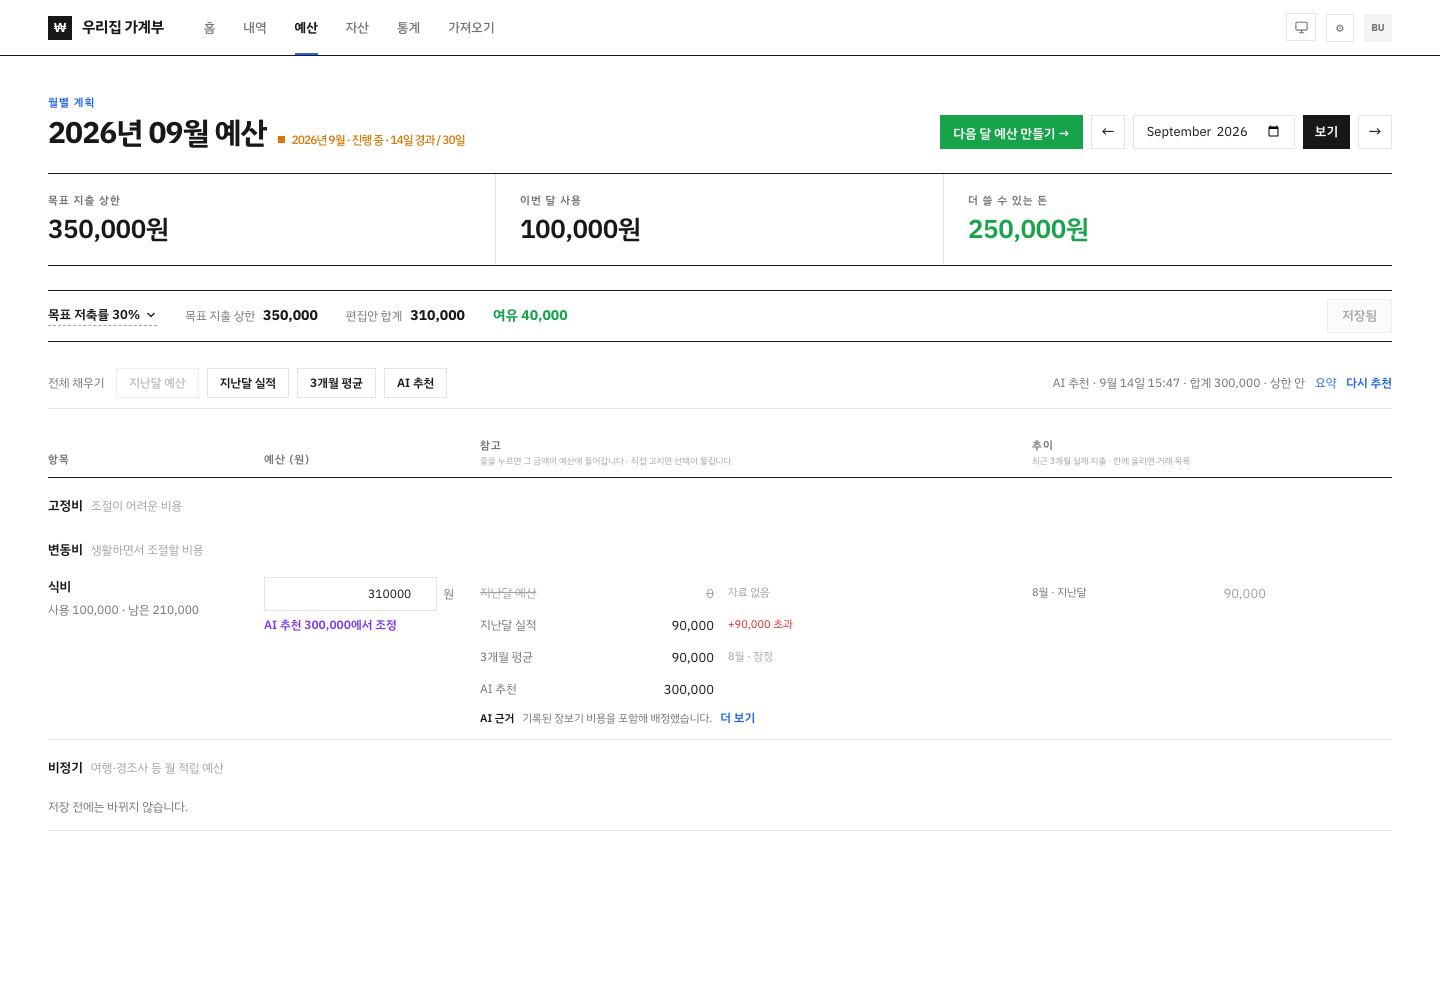
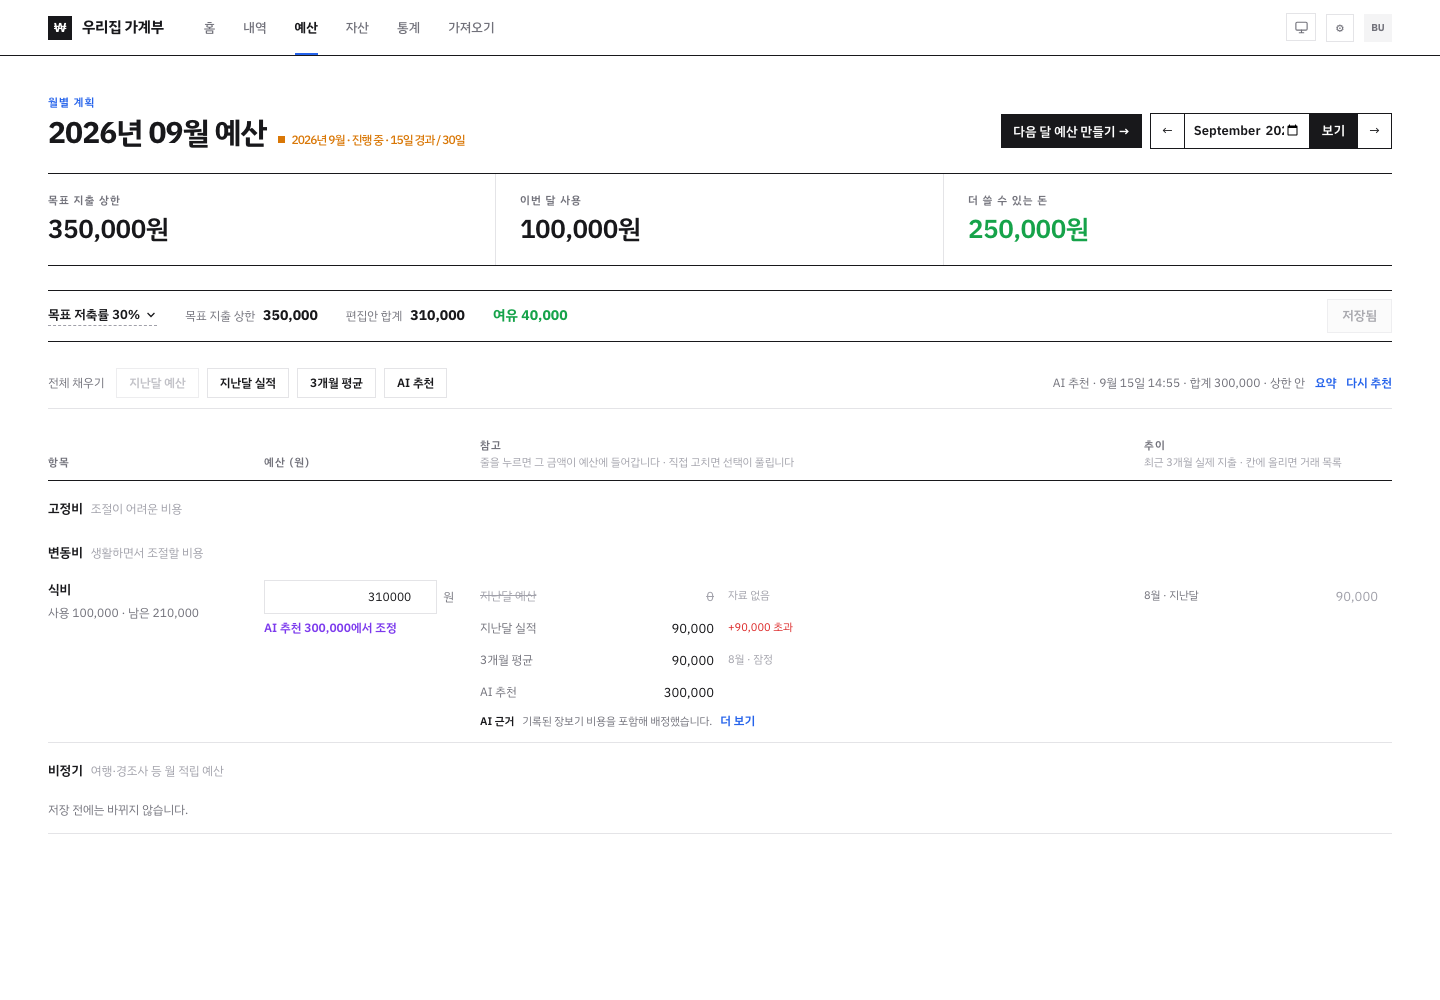
docs(budget-editor): refresh the 1440px record for the new column widths
fd60bf4 narrowed 추이 from 360px to 248px and gave the 112px to 참고, so the
1440px images in this directory no longer describe the layout. 56fdcd8 and
everything before it is already merged to main as f01fa63 and deploying, which
makes these images the record of live code -- stale is worse than changed.

What visibly moves at 1440px: the 참고 rows extend 112px further right, so a
selected row's check mark and its caption sit where the 추이 column used to
start. 추이 is narrower and its month/amount pair no longer floats with an empty
gap to its right -- the amounts align hard to the content edge. Nothing is
clipped or overlapped in any of the three, and the row heights are unchanged.

local-desktop-1440.png carries more than that. verification.md's 2026-09-14 entry
left it deliberately stale, one whole feature behind -- it predates the 추이
column entirely -- so this refresh brings that in too. It is a live capture, so
its date line and AI recommendation timestamp move with it.

The two 390px mobile images are deliberately NOT touched. @media (max-width:
640px) replaces the base columns outright, so this change cannot reach them. I
checked rather than assumed: with the shipped 56fdcd8 globals.css swapped into
the tree, the synthetic screenshot test regenerates synthetic-mobile-390.png and
synthetic-mobile-menu-390.png byte-identical to the run with my own CSS, while
both desktop images differ. Their drift from the committed baseline is older than
[…]

diff --git a/docs/design/budget-editor/result/verification.md b/docs/design/budget-editor/result/verification.md
@@ -141,3 +141,37 @@ standalone 실행이 `docs/design/budget-editor/result/`의 `synthetic-desktop-1
 ### 보호 경계
 
 브랜치 병합 기준점 `9af8e2b`부터 `826dbf1`까지 바뀐 파일을 전부 나열해 확인했다. `save-contract.ts`, `save-service.ts`, `budget-recommendations/snapshot.ts`, `budget-recommendations/worker.ts`는 목록에 없다. DB 스키마·마이그레이션 변경도 없다. 바뀐 것은 `src/features/analytics/*`, `src/features/budgets/*`와 그 테스트들, `eslint.config.mjs`(Task 1, 중첩 워크트리를 lint ignore에 추가), `src/app/globals.css`뿐이다.
+
+## 2026-09-15 참고·추이 열 너비 재조정
+
+`ui-alignment-followup` 후속 작업에서 `.plan-item`의 기본 네 번째 열(추이)을 `360px`에서 `248px`로 줄이고 그 112px를 참고 열에 넘겼다. 이 브랜치의 앞 커밋 `56fdcd8`까지는 이미 `main`에 병합(`f01fa63`)되어 배포 중이므로, 이 변경은 라이브 코드에 대한 후속 변경이다.
+
+### 근거
+
+`.plan-trend__cell`은 `110px 110px minmax(0, 1fr)`에 14px gap 두 개이므로 실제로 쓰는 폭은 248px다. 세 번째 트랙은 모바일 전용 라벨·구분자를 담는데 데스크톱에서는 `display:none`이라 **측정값이 92px의 빈 트랙**이었다. 반면 참고 열은 행에서 가장 넓은 내용을 담는다. `/budgets`의 참고 행 72개와 추이 셀 54개를 각 요소의 실제 computed font로 재어 얻은 트랙별 최대 내용은 다음과 같다.
+
+| 트랙 | 최대 내용 | 폭 |
+|---|---|---|
+| 참고 label | `지난달 예산` | 57px |
+| 참고 amount | `1,176,587` | 62px |
+| 참고 caption | `3·4·5월 · 3·4·5월 3회 · 잠정` | 130px |
+| 추이 month | `5월 · 지난달` | 55px |
+| 추이 amount | `1,298,764` | 62px |
+| 항목 | `생활용품` | 58px |
+
+`.plan-reference__option`의 좁은 트랙 밴드도 같은 112px만큼 줄어 `1335.98px` → `1223.98px`에서 끝난다. 참고 열은 `viewport − 792`이고 데스크톱 옵션 트랙은 캡션에 `참고 − 302`를 남기므로, 캡션이 130px에 도달하는 지점이 1336px에서 **1224px**로 당겨졌다. `1024–1195` 밴드는 유지했다. 추이 248px는 이제 기본값과 같아졌지만 항목 160px가 여전히 참고에 40px를 벌어 주며, 1024px에서 캡션 트랙이 그것을 뺐을 때 4px, 두었을 때 44px로 측정됐다.
+
+390px/640/641/700/800/900/1023/1024/1100/1195/1196/1204/1250/1300/1335/1336/1400/1440/1600에서 확인했다. 월·금액·항목 이름은 어느 폭에서도 잘리지 않고, `.plan-item__references`와 `.plan-trend` 바깥으로 넘치는 자식도 없으며, 캡션 트랙이 0이 되는 구간도 없다.
+
+**닫히지 않은 잔여 문제:** 1024px에서 44px, 641px에서 53px인 캡션 잘림은 그대로다. 두 반응형 밴드가 이미 추이를 248px로 고정하고 있어 기본 규칙이 그 구간에서 완전히 덮이기 때문이며, 변경 전후 측정값이 동일하다. 이 변경이 개선한 구간은 1196px 이상뿐이다.
+
+### 다시 생성한 이미지
+
+- [데스크톱 1440](synthetic-desktop-1440.png), [데스크톱 저축 목표](synthetic-desktop-target-1440.png): 참고 행이 오른쪽으로 112px 넓어지고 추이 열이 좁아졌다. 추이의 월·금액 쌍이 이전처럼 빈 공간을 사이에 두고 떨어져 있지 않고 붙어서 오른쪽 끝에 정렬된다. 잘리거나 겹치는 요소는 없다. 위 표의 설명은 그대로 유효하다.
+- [로컬 1440](local-desktop-1440.png): 같은 열 변화가 실제 로그인 페이지에서도 보인다. 이 파일은 2026-09-14 기록에서 "추이 열 이전 화면이라 stale"로 남겨 둔 것이라 이번 갱신에는 추이 열 도입분까지 함께 반영된다. 라이브 캡처라 날짜(`14일 경과` → `15일 경과`)와 AI 추천 시각도 함께 바뀐다.
+
+**모바일 390px 이미지 두 개는 바꾸지 않았다.** `@media (max-width: 640px)`가 기본 열을 완전히 덮으므로 이 변경은 390px에 닿지 않는다. 배포된 `56fdcd8`의 `globals.css`를 트리에 넣고 합성 스크린샷 테스트를 그대로 다시 돌려 확인했고, `synthetic-mobile-390.png`와 `synthetic-mobile-menu-390.png`는 두 CSS에서 **바이트 단위로 동일**했다(데스크톱 두 장은 예상대로 달랐다). 따라서 모바일 이미지가 커밋된 baseline과 다른 부분은 이 변경이 아니라 그 전부터의 drift이며, 이 커밋에 섞지 않았다.
+
+### 이 변경과 무관한 관찰
+
+`month-nav.tsx`의 월 입력은 `w-[124px]` 고정에 `t-body-strong`(13px/600)이라, 웹폰트 `IBM Plex Sans KR`가 적용된 상태에서 `September 2026`이 `September 20…`으로 잘린다. 이 파일은 이 브랜치에서 건드리지 않았고 배포된 `main`과 바이트가 같으므로 기존 문제이며, 지금 라이브에서도 재현된다. 이번 변경 범위 밖이라 고치지 않고 기록만 남긴다.
